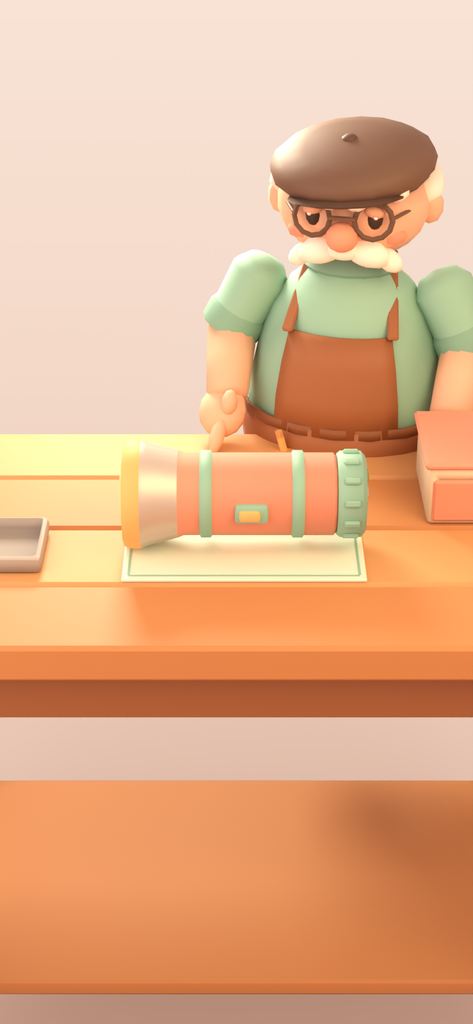
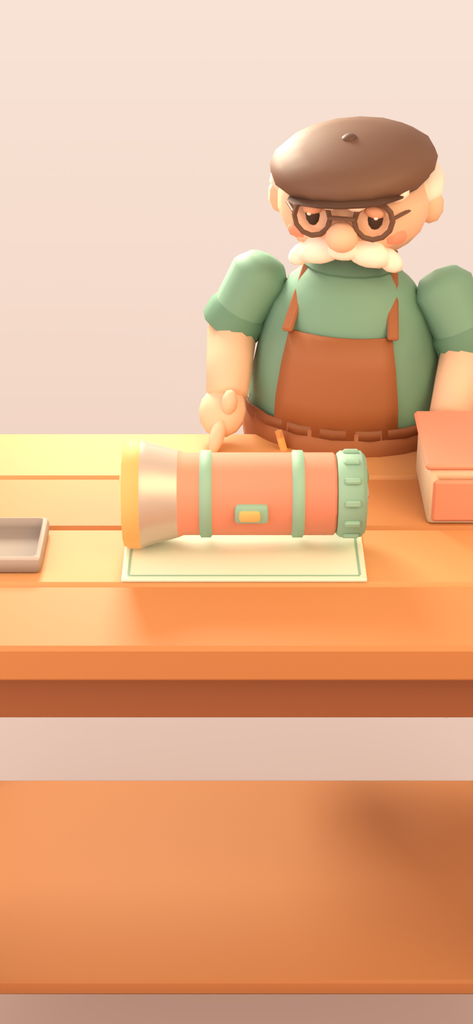
modelli: Ettore, camicia #6F9E88 e pelle #EBC3A6
La camicia salvia si confondeva con gli anelli della torcia e il panno.
Camicia #8FBFA8 → #6F9E88, colletto/polsini #7FAE98 → #5F8E78, pelle e naso #EBC3A6.
Il JSON glTF resta identico: cambiano solo i colori dei vertici.

Changed region(s): [[0.4144, 0.2188, 1.0, 0.4375]]

diff --git a/strumenti/modelli/ettore.py b/strumenti/modelli/ettore.py
@@ -20,9 +20,9 @@ from mathutils import Vector, Matrix, Euler, Quaternion
 
 S = 1.35
 C = {
-    "pelle": "#EDB89A", "naso": "#E39C7E", "guance": "#E8977C", "pelo": "#FFF6EA",
-    "coppola": "#6B4E3D", "coppola_scuro": "#5A4134", "occhiali": "#6B4E3D", "camicia": "#8FBFA8",
-    "camicia_ombra": "#7FAE98", "grembiule": "#9A5F38", "grembiule_bordo": "#86512F",
+    "pelle": "#EBC3A6", "naso": "#EBC3A6", "guance": "#E8977C", "pelo": "#FFF6EA",
+    "coppola": "#6B4E3D", "coppola_scuro": "#5A4134", "occhiali": "#6B4E3D", "camicia": "#6F9E88",
+    "camicia_ombra": "#5F8E78", "grembiule": "#9A5F38", "grembiule_bordo": "#86512F",
     "pantaloni": "#5A4A40", "scarpe": "#6B4E3D", "occhi": "#3C291C", "luce": "#FFF6EA",
     "carta": "#E9D9BE", "palpebra": "#E3A98A", "foto": "#8FBFA8", "carta_chiara": "#F3E8D4", "inchiostro": "#D2BEA4", "titolo": "#3C291C",
     "matita": "#F0B86E", "mina": "#5A4A40", "legno": "#D29A62",

diff --git a/docs/ETTORE.md b/docs/ETTORE.md
@@ -5,6 +5,8 @@ Personaggio originale per La Bottega, modellato con uno script Blender 4.2 (`str
 roughness 0.62, metalness 0). Colori e AO (−14 % sotto la coppola, sul collo e sotto le braccia) sono nei vertici
 (`COLOR_0`). Non ci sono texture né UV.
 
+- Palette di Ettore: camicia #6F9E88 e colletto/polsini #5F8E78 (piu' scura della salvia #8FBFA8 di torcia e panno), pelle e naso #EBC3A6 (colori base, prima dell'AO -14 %).
+
 | | |
 |---|---|
 | Triangoli | **5 996** (budget Ettore ≤ 6 000) |
